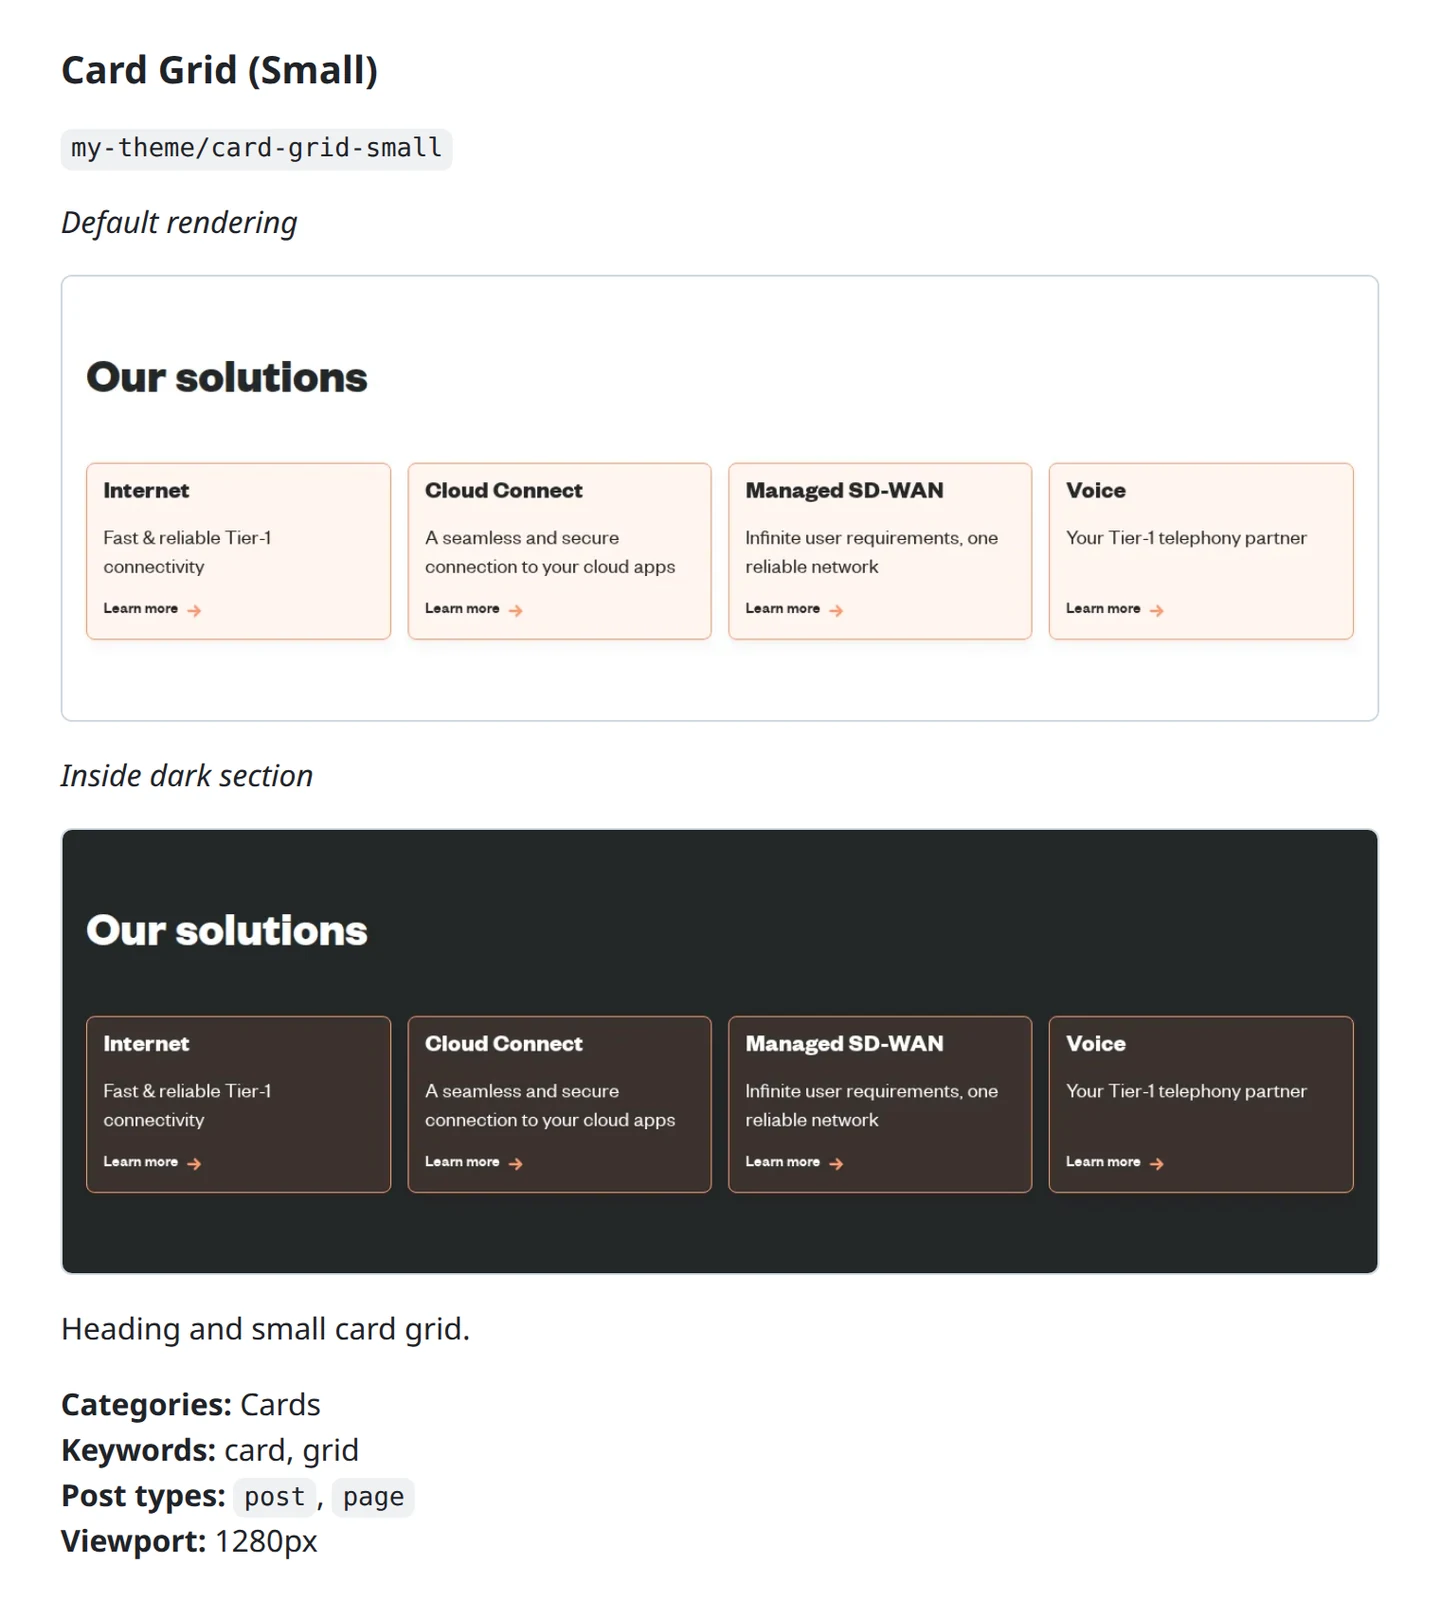
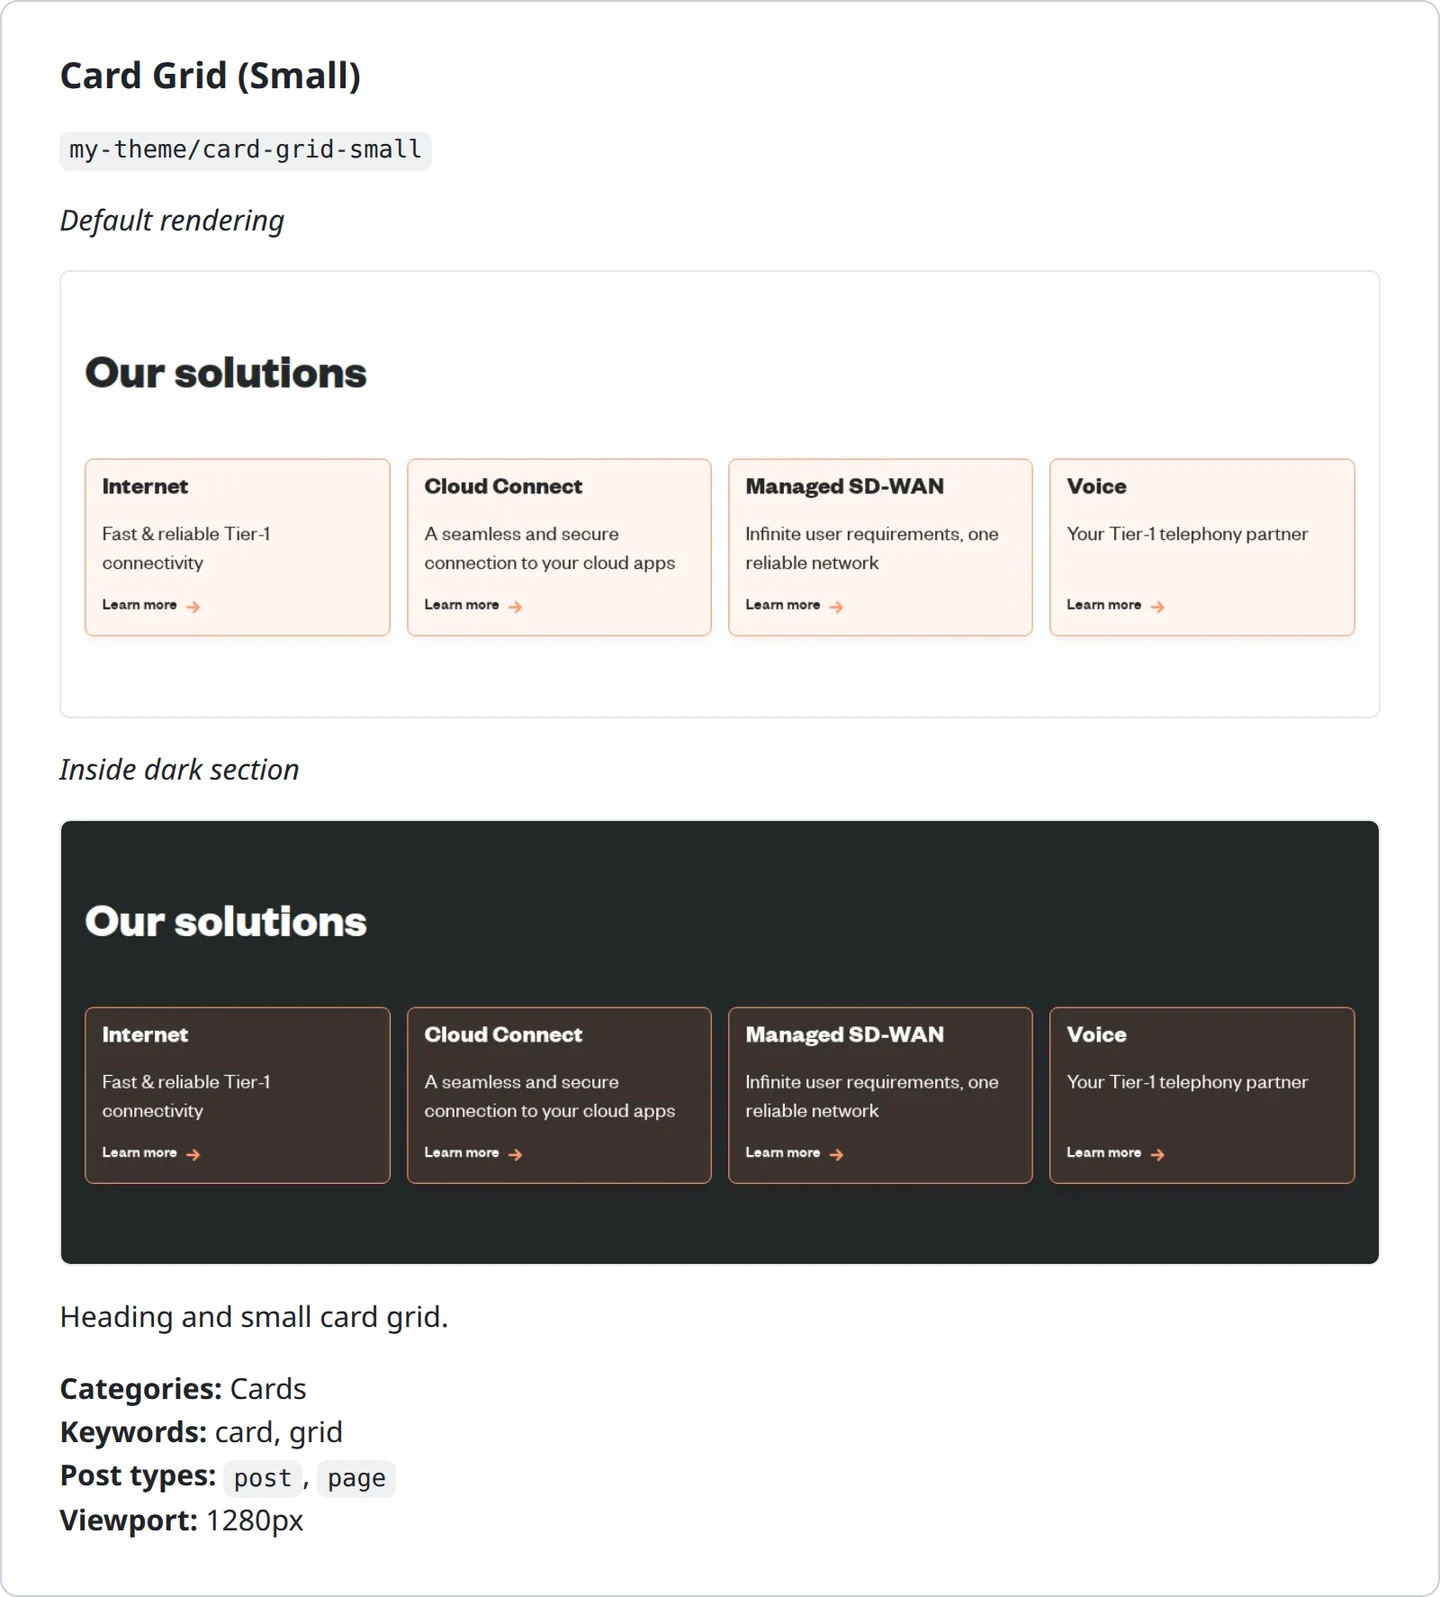
Update docs manually, and remove testing branch rule

diff --git a/docs/05-github-action.md b/docs/05-github-action.md
@@ -34,11 +34,11 @@ wp pattern-library setup --login=pattern-library-bot
 
 Under **Settings → Secrets and variables → Actions**:
 
-| Name                              | Kind     | Value                     |
-| --------------------------------- | -------- | ------------------------- |
-| `PATTERN_LIBRARY_WP_USER`         | Secret   | `pattern-library-bot`     |
-| `PATTERN_LIBRARY_WP_APP_PASSWORD` | Secret   | The application password  |
-| `PATTERN_LIBRARY_SITE`            | Variable | `https://www.example.com` |
+| Name                              | Kind     | Value                      |
+| --------------------------------- | -------- | -------------------------- |
+| `PATTERN_LIBRARY_WP_USER`         | Secret   | e.g. `pattern-library-bot` |
+| `PATTERN_LIBRARY_WP_APP_PASSWORD` | Secret   | The application password   |
+| `PATTERN_LIBRARY_SITE`            | Variable | `https://www.example.com`  |
 
 The site URL is a variable rather than a secret because it isn't one, and having it visible in the workflow log is useful when a run captures the wrong environment.
 
@@ -130,9 +130,11 @@ Pin `version` to the same release as the action reference, so a run can't mix ve
 
 ## Triggers
 
-The example is `workflow_dispatch` on purpose. A refresh opens a pull request containing images and captures whatever is deployed at that moment, so it's usually best run when you know what state the site is in.
+The example above illustrates a manual `workflow_dispatch`. This opens a pull request containing images and captures whatever is deployed at that moment.
 
-On a schedule instead:
+For a hand-off approach, use any other triggers available in GitHub Actions:
+
+### On a schedule
 
 ```yaml
 on:
@@ -141,7 +143,80 @@ on:
     - cron: '0 6 * * 1'   # Mondays, 06:00 UTC
 ```
 
-Note that `schedule` triggers don't receive `inputs`, so give the workflow defaults that stand on their own.
+### When patterns or styles change
+
+The obvious thing to reach for is a path-filtered `push`:
+
+```yaml
+on:
+  workflow_dispatch:
+  push:
+    branches: [ main ]
+    paths:
+      - 'themes/*/patterns/**'
+      - 'themes/*/parts/**'
+      - 'themes/*/templates/**'
+      - 'themes/*/theme.json'
+      - 'themes/*/style.css'
+      - 'themes/*/assets/**'
+```
+
+{: .warning }
+
+> **A bare `push` trigger races your deploy.** The capture reads the *deployed* site, not the branch that just changed. A push-triggered run starts within seconds of the merge, while the deploy that would put those patterns on the site is still going — so the refresh captures the previous build and reports no changes, or worse, quietly re-commits the old screenshots. Use it only where the merge and the deploy are effectively the same event.
+
+The trigger you usually want is the deploy finishing, not the push starting:
+
+```yaml
+on:
+  workflow_dispatch:
+  workflow_run:
+    workflows: [ Deploy ]     # The `name:` of your deploy workflow.
+    branches: [ main ]
+    types: [ completed ]
+
+concurrency:
+  group: pattern-library-refresh
+  cancel-in-progress: true
+
+jobs:
+  refresh:
+    if: ${{ github.event.workflow_run.conclusion == 'success' }}
+```
+
+`workflow_run` takes no `paths` filter, so the path check moves inside the job — check out the commit the deploy shipped, with its parent, and compare:
+
+```yaml
+      - uses: actions/checkout@v7
+        with:
+          ref: ${{ github.event.workflow_run.head_sha || github.ref }}
+          fetch-depth: 2
+
+      - name: Did anything visual change?
+        id: touched
+        run: |
+          set -euo pipefail
+
+          if git diff --quiet HEAD^ HEAD -- \
+            'themes/*/patterns/*' 'themes/*/parts/*' 'themes/*/templates/*' \
+            'themes/*/theme.json' 'themes/*/style.css' 'themes/*/assets/*'
+          then
+            echo 'No pattern or style changes in this deploy.'
+            echo 'changed=false' >> "$GITHUB_OUTPUT"
+          else
+            echo 'changed=true' >> "$GITHUB_OUTPUT"
+          fi
+```
+
+Those pathspecs are not the same strings as the `paths:` filter above, and the difference is easy to lose an afternoon to. A `paths:` filter is matched by Actions, where `*` stops at a `/` and `**` is what recurses. A pathspec is matched by git, where `*` happily crosses `/` — but a pathspec containing a wildcard has to match the *whole* path, so the directory shorthand stops working: `themes/*/patterns` matches nothing at all, while `themes/*/patterns/*` matches every file at any depth beneath it.
+
+Then guard the capture and the pull request with `if: steps.touched.outputs.changed == 'true'`. Leaving `workflow_dispatch` in place gives you a manual override for the times the diff is not the whole story — a plugin update or a content change can move a rendering without touching a file in that list.
+
+The `concurrency` group matters more here than on a schedule: several merges in an afternoon would otherwise start several capture runs against the same site, each spending minutes in a browser to produce a pull request the next one supersedes. Cancelling the in-flight run keeps one refresh going at a time. The pull request itself is safe either way — `create-pull-request` reuses the `pattern-library/refresh` branch, so repeated runs update one pull request rather than opening a pile of them.
+
+### Automatic triggers get no `inputs`
+
+`schedule`, `push` and `workflow_run` all run without the `workflow_dispatch` inputs, so `${{ inputs.output_path }}` evaluates to an empty string. Give every input a default the expression can fall back to, or replace the references with `env:` values the whole workflow shares.
 
 ## Which environment to capture
 
@@ -196,4 +271,6 @@ The action is a thin wrapper. The CLI is a plain Node program, so GitLab CI, Bit
 
 **The pull request is enormous.** Every screenshot changed, which usually means live content in query loops. See [screenshot churn]({{ site.baseurl }}/npm-package#troubleshooting).
 
-**Nothing happens on a schedule trigger.** `schedule` doesn't pass `inputs`, so a workflow that relies on `${{ inputs.output_path }}` gets an empty string. Give the inputs defaults the expressions can fall back to.
+**Nothing happens on a schedule trigger.** `schedule` doesn't pass `inputs`, so a workflow that relies on `${{ inputs.output_path }}` gets an empty string. Give the inputs defaults the expressions can fall back to. The same applies to `push` and `workflow_run`.
+
+**An automatic refresh reports no changes after an obvious pattern change.** The run captured the site before the deploy reached it. Trigger the refresh from the deploy finishing rather than from the push — see [triggers](#when-patterns-or-styles-change).

diff --git a/docs/01-index.md b/docs/01-index.md
@@ -10,7 +10,7 @@ permalink: /
 
 WP Pattern Library builds a browsable, screenshotted Markdown design reference from the registered patterns in a WordPress project. Documentation is generated from the patterns themselves, so it can reflect the actual theming.
 
-![A pattern as the generator captured it — a full-width hero, rendered at 1440px with the theme's real styles and fonts]({{ site.baseurl }}/assets/images/example-capture.webp)
+![One pattern's entry in a generated library: its title, its slug, the capture itself, the description from the pattern header, and the category, keyword, block type and viewport metadata beneath it]({{ site.baseurl }}/assets/images/example-capture.webp)
 
 The preview is similar to the pattern previews in the editor "Add Pattern" interface, but pregenerated so that its easier to browse.  It also includes description and pattern metadata, for design reference. On a project with 50 or more patterns this can be useful as end user reference documentation as well as for developer review and regression testing.  
 
